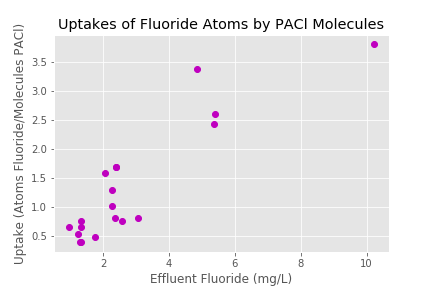
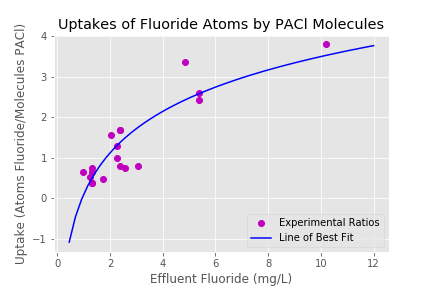
graphs

diff --git a/Summer 2019/Data and Graphs/Molecular Ratios.md b/Summer 2019/Data and Graphs/Molecular Ratios.md
@@ -15,12 +15,12 @@ np.polyfit(np.log(effluent_fluoride),ratio,1)
 
 bestfit_effluent = np.array(np.linspace(0.45,12))
 bestfit_uptake = 1.47516487 * np.log(bestfit_effluent) + 0.10178618
-bestfit_plot, = plt.plot(bestfit_effluent, bestfit_uptake, "g")
+bestfit_plot, = plt.plot(bestfit_effluent, bestfit_uptake, "b")
 
 plt.title("Uptakes of Fluoride Atoms by PACl Molecules")
 plt.xlabel("Effluent Fluoride (mg/L)")
 plt.ylabel("Uptake (Atoms Fluoride/Molecules PACl)")
-plt.legend((bestfit_plot), ("Uptake equals 1.47516487timeslog(effluent) plus 0.10178618"))
+plt.legend((fluoride_plot, bestfit_plot), ("Experimental Ratios", "Line of Best Fit"))
 
 plt.savefig("Uptakes of Fluoride Atoms by PACl Molecules")
 
